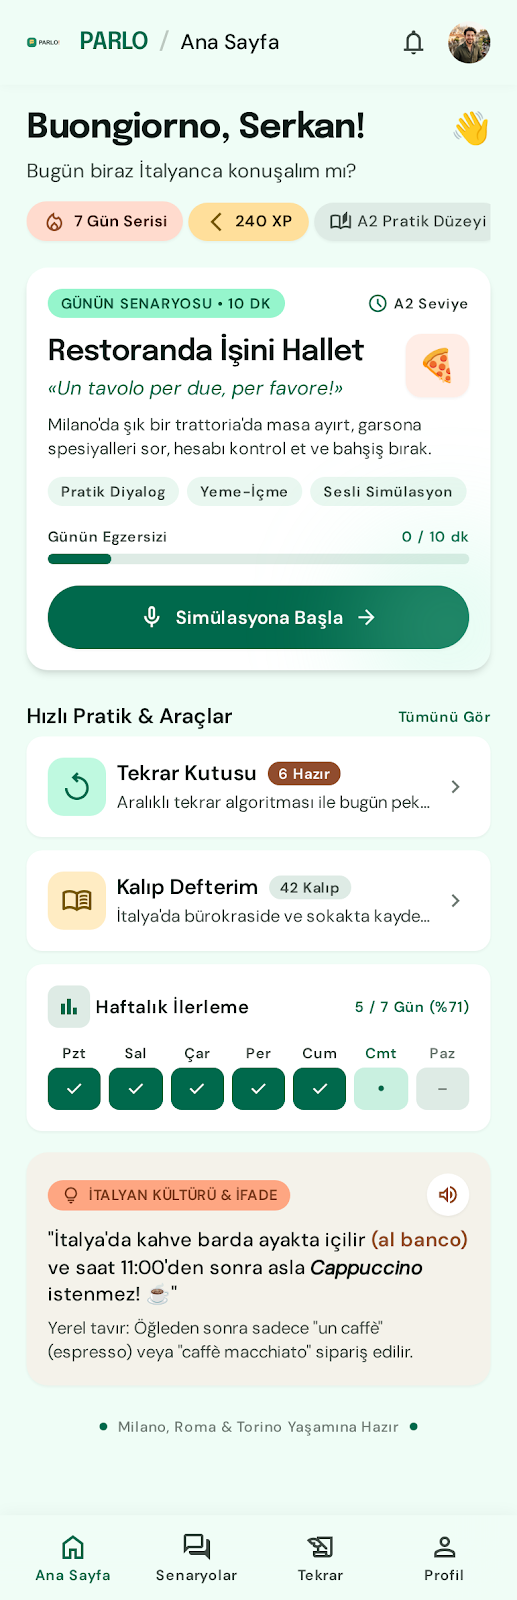
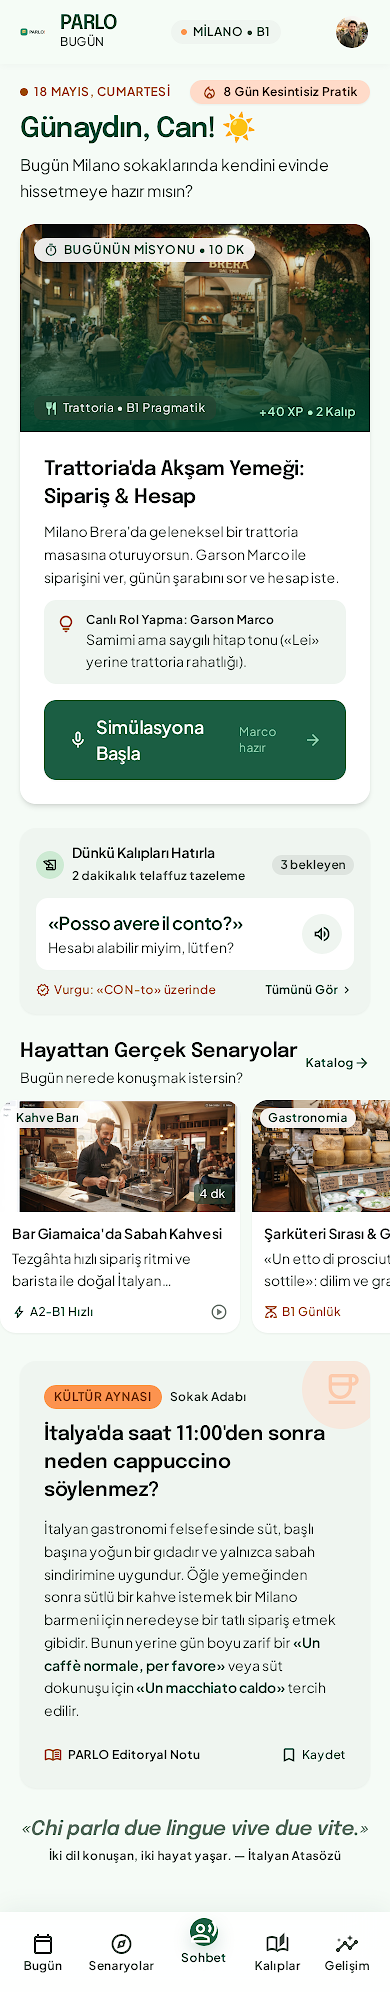
Ana sayfa: yeni editoryal tasarım
- Tarih + gün serisi satırı, büyük misyon kartı (rol yapma notu,
  tekrar/sohbet adımları, tek ana buton)
- "Dünkü kalıpları hatırla": vadesi gelen ya da en zayıf cümle, dinleme ve kalıp ipucu
- Yatay kayan "Hayattan gerçek senaryolar" şeridi
- "Kültür aynası" editoryal kartı (başlıklı ipuçları, cümlelerime kaydet)
- Haftalık takvim Gelişim sayfasına taşındı
- Senaryolara ana sayfa misyon başlığı ("mission") eklendi

Claude-Session: https://claude.ai/code/session_018EdmJzCTZVP4KnGBhiJ7SX

diff --git a/src/screens/home.js b/src/screens/home.js
@@ -1,10 +1,11 @@
 import { h, icon } from '../lib/dom.js';
-import { dailyScene, tips, allCardIds } from '../content/index.js';
-import { today, streak, isActiveDay } from '../lib/store.js';
-import { addDays, isDue } from '../lib/srs.js';
-import { topbar, speakBtn, greeting, levelChip } from '../ui.js';
+import { dailyScene, tips, scenes, cards, allCardIds, patternById, CATEGORIES } from '../content/index.js';
+import { today, streak } from '../lib/store.js';
+import { isDue } from '../lib/srs.js';
+import { topbar, speakBtn, greeting } from '../ui.js';
 
-const WEEKDAYS = ['Pzt', 'Sal', 'Çar', 'Per', 'Cum', 'Cmt', 'Paz'];
+const MONTHS = ['Ocak', 'Şubat', 'Mart', 'Nisan', 'Mayıs', 'Haziran', 'Temmuz', 'Ağustos', 'Eylül', 'Ekim', 'Kasım', 'Aralık'];
+const DAYS = ['Pazar', 'Pazartesi', 'Salı', 'Çarşamba', 'Perşembe', 'Cuma', 'Cumartesi'];
 
 export function dueCount(state, t = today()) {
   return Object.entries(state.cards).filter(([id, c]) => allCardIds.includes(id) && isDue(c, t)).length;
@@ -15,6 +16,11 @@ export function dailyStatus(state, t = today()) {
   const day = state.days[t] || { review: 0, scenes: [] };
   return { scene, reviewDone: Boolean(day.dailyReview), chatDone: day.scenes.includes(scene.id) };
 }
+
+const dayNumber = (t) => {
+  const [y, m, d] = t.split('-').map(Number);
+  return Math.floor(Date.UTC(y, m - 1, d) / 86400000);
+};
 
 function nameCard(ctx) {
   const input = h('input', { class: 'input', placeholder: 'Adın (örn. Serkan)', maxlength: 30, autocomplete: 'given-name', 'aria-label': 'Adın' });
@@ -34,77 +40,126 @@ function nameCard(ctx) {
 
 function missionCard(ctx) {
   const { scene, reviewDone, chatDone } = dailyStatus(ctx.state);
-  const firstLine = scene.nodes[scene.start].intents[0].model;
-  const step = (done, label, ico) => h('div', { class: `step ${done ? 'done' : ''}` }, icon(done ? 'check' : ico), label);
-
-  let cta;
-  if (!reviewDone) cta = h('button', { class: 'btn block', onclick: () => ctx.go('review?daily=1') }, 'Derse başla', icon('arrow'));
-  else if (!chatDone) cta = h('button', { class: 'btn block', onclick: () => ctx.go(`chat/${scene.id}?daily=1`) }, icon('mic'), `${scene.persona.name} ile konuş`, icon('arrow'));
-  else cta = h('button', { class: 'btn soft block', onclick: () => ctx.go(`chat/${scene.id}`) }, icon('check'), 'Bugünlük tamam · Tekrar oyna');
+  const cat = CATEGORIES.find((c) => c.id === scene.cat);
+  const fresh = scene.cards.filter((id) => !ctx.state.cards[id]).length;
+  const go = !reviewDone ? 'review?daily=1' : `chat/${scene.id}${chatDone ? '' : '?daily=1'}`;
+  const [label, sub] = !reviewDone
+    ? ['Derse başla', 'Önce 2 dk tekrar']
+    : !chatDone ? ['Simülasyona başla', `${scene.persona.name} hazır`] : ['Tekrar oyna', 'Bugünlük tamam ✓'];
 
   return h('article', { class: 'card mission' },
-    h('div', { class: `art art-${scene.cat}`, 'aria-hidden': 'true' }, scene.emoji),
+    h('div', { class: `art art-${scene.cat}` },
+      h('span', { class: 'emoji', 'aria-hidden': 'true' }, scene.emoji),
+      h('span', { class: 'chip glass top' }, icon('clock'), `Bugünün misyonu · ~${scene.minutes + 3} dk`),
+      h('div', { class: 'bottom' },
+        h('span', { class: 'row' }, icon(cat.icon), `${scene.it} · ${scene.level}`),
+        h('span', {}, fresh ? `${fresh} yeni kalıp` : 'Tekrar turu'))),
     h('div', { class: 'body stack' },
-      h('div', { class: 'row between' }, h('span', { class: 'eyebrow' }, `Günün senaryosu · ~${scene.minutes + 3} dk`), levelChip(scene.level)),
-      h('h2', {}, `${scene.tr}: ${scene.it}`),
-      h('div', { class: 'row' }, h('p', { class: 'quote grow' }, `«${firstLine}»`), speakBtn(firstLine)),
-      h('p', { class: 'small muted' }, scene.desc),
-      h('div', { class: 'steps' }, step(reviewDone, 'Hızlı tekrar', 'repeat'), step(chatDone, 'Sohbet', 'mic')),
-      cta));
+      h('h2', {}, `${scene.tr}: ${scene.mission}`),
+      h('p', { class: 'muted' }, scene.desc),
+      h('div', { class: 'infobox' }, icon('bulb'),
+        h('div', {},
+          h('p', { class: 'small' }, h('strong', {}, `Canlı rol yapma: ${scene.persona.name}, ${scene.persona.role.toLowerCase()}`)),
+          h('p', { class: 'small muted' }, scene.register === 'Lei' ? 'Kibar ve resmî hitap («Lei»).' : 'Samimi hitap («tu»).'))),
+      h('div', { class: 'progress-line small muted' },
+        h('span', { class: reviewDone ? 'on' : '' }, icon(reviewDone ? 'check' : 'repeat'), 'Hızlı tekrar'),
+        h('span', { class: chatDone ? 'on' : '' }, icon(chatDone ? 'check' : 'mic'), 'Sohbet')),
+      h('button', { class: 'btn mission-cta', onclick: () => ctx.go(go) },
+        icon(reviewDone ? 'mic' : 'repeat'),
+        h('span', { class: 'grow cta-text' }, h('span', {}, label), h('span', { class: 'sub' }, sub)),
+        icon('arrow'))));
 }
 
-function toolsSection(ctx) {
-  const due = dueCount(ctx.state);
-  const known = Object.keys(ctx.state.cards).length;
-  const tool = (badgeCls, ico, title, sub, onclick) =>
-    h('button', { class: 'card tool', onclick },
-      h('span', { class: `badge ${badgeCls}` }, icon(ico)),
-      h('span', { class: 'grow' }, h('h3', {}, title), h('span', { class: 'small muted' }, sub)),
-      icon('chevron', 'chev'));
+/** Tekrar zamanı gelen (yoksa en zayıf bilinen, o da yoksa bugünün) kalıbından bir örnek. */
+function recallCard(ctx) {
+  const t = today();
+  const state = ctx.state;
+  const due = dueCount(state, t);
+  const known = Object.entries(state.cards).filter(([id]) => cards[id]);
+  let pick;
+  let title;
+  if (known.length) {
+    known.sort((a, b) => (isDue(b[1], t) - isDue(a[1], t)) || a[1].box - b[1].box);
+    pick = cards[known[0][0]];
+    title = 'Dünkü kalıpları hatırla';
+  } else {
+    pick = cards[dailyScene(t).key];
+    title = 'Bugünün kalıbı';
+  }
+  const pattern = pick.pattern ? patternById(pick.pattern) : null;
+  return h('section', { class: 'card cream stack' },
+    h('div', { class: 'row' },
+      h('span', { class: 'badge-round' }, icon('repeat')),
+      h('div', { class: 'grow' }, h('h3', {}, title), h('p', { class: 'small muted' }, due ? '2 dakikalık tazeleme' : 'Dinle, sesli tekrar et')),
+      due ? h('span', { class: 'chip' }, `${due} bekleyen`) : null),
+    h('div', { class: 'card row', style: 'padding:14px' },
+      h('div', { class: 'grow' }, h('p', { class: 'key-it', lang: 'it' }, `«${pick.it}»`), h('p', { class: 'tr' }, pick.tr)),
+      speakBtn(pick.it)),
+    h('div', { class: 'row between small' },
+      pattern ? h('span', { class: 'row terra-text' }, icon('bulb'), `Kalıp: ${pattern.head} ${pattern.slot}`.trim()) : h('span'),
+      h('button', { class: 'link row', onclick: () => ctx.go(due ? 'review?mode=due' : 'notebook') }, due ? 'Tekrar et' : 'Tümünü gör', icon('chevron'))));
+}
+
+function scenesStrip(ctx) {
+  const daily = dailyScene(today());
+  const start = scenes.indexOf(daily);
+  const ordered = [...scenes.slice(start + 1), ...scenes.slice(0, start)];
   return h('section', { class: 'stack' },
-    h('h2', {}, 'Hızlı pratik'),
-    tool('', 'repeat', 'Tekrar kutusu', due ? `${due} cümlenin tekrar zamanı geldi` : 'Bugün tekrar edilecek cümle yok', () => due ? ctx.go('review?mode=due') : ctx.go('notebook')),
-    tool('sun', 'book', 'Cümlelerim', known ? `${known} cümle öğrenmeye başladın` : 'Kalıplar ve kendi cümlelerin', () => ctx.go('notebook')));
+    h('div', { class: 'section-head' },
+      h('div', {}, h('h2', {}, 'Hayattan gerçek senaryolar'), h('p', { class: 'small muted' }, 'Bugün nerede konuşmak istersin?')),
+      h('button', { class: 'link row', onclick: () => ctx.go('scenes') }, 'Katalog', icon('arrow'))),
+    h('div', { class: 'strip' }, ordered.map((s) => {
+      const cat = CATEGORIES.find((c) => c.id === s.cat);
+      const done = ctx.state.scenes[s.id]?.runs;
+      return h('button', { class: 'card strip-card', onclick: () => ctx.go(`chat/${s.id}`) },
+        h('span', { class: `thumb art-${s.cat}` },
+          h('span', { class: 'chip glass tag' }, cat.label),
+          h('span', { 'aria-hidden': 'true' }, s.emoji),
+          h('span', { class: 'chip dark time' }, `${s.minutes} dk`)),
+        h('span', { class: 'body' },
+          h('span', { class: 'title' }, `${s.tr} · ${s.it}`),
+          h('span', { class: 'desc' }, s.desc),
+          h('span', { class: 'row between meta' }, h('span', {}, done ? '✓ Tamamlandı' : `${s.level} · ${s.persona.name}`), icon('chevron'))));
+    })));
 }
 
-function weekSection(state) {
-  const t = today();
-  const [y, m, d] = t.split('-').map(Number);
-  const offset = (new Date(y, m - 1, d).getDay() + 6) % 7; // Pazartesi = 0
-  const monday = addDays(t, -offset);
-  const days = WEEKDAYS.map((label, i) => {
-    const key = addDays(monday, i);
-    return { label, key, on: isActiveDay(state, key), isToday: key === t };
-  });
-  const count = days.filter((x) => x.on).length;
-  return h('section', { class: 'card stack' },
-    h('div', { class: 'row between' }, h('h3', {}, 'Bu hafta'), h('span', { class: 'small muted' }, `${count} / 7 gün`)),
-    h('div', { class: 'week' },
-      days.map((x) => h('div', {}, h('span', {}, x.label),
-        h('i', { class: `${x.on ? 'on' : ''} ${x.isToday ? 'today' : ''}`, 'aria-label': `${x.label}: ${x.on ? 'pratik yapıldı' : 'pratik yok'}` }, x.on ? icon('check') : '')))));
-}
-
-function tipCard() {
-  const t = today();
-  const [y, m, d] = t.split('-').map(Number);
-  const tip = tips[Math.floor(Date.UTC(y, m - 1, d) / 86400000) % tips.length];
-  return h('section', { class: 'card terra stack' },
-    h('div', { class: 'row between' }, h('span', { class: 'chip terra' }, icon('bulb'), tip.tag), speakBtn(tip.it)),
-    h('p', { class: 'it' }, `«${tip.it}»`),
-    h('p', { class: 'small' }, tip.text));
+function cultureCard(ctx) {
+  const tip = tips[dayNumber(today()) % tips.length];
+  const saved = () => (ctx.state.personal || []).some((p) => p.it === tip.it);
+  const saveBtn = h('button', { class: 'link row', 'aria-pressed': String(saved()), onclick: () => {
+    if (saved()) return;
+    ctx.state.personal = [{ id: Date.now().toString(36), it: tip.it, note: tip.title, date: new Date().toISOString() }, ...(ctx.state.personal || [])];
+    ctx.persist();
+    saveBtn.replaceChildren(icon('check'), 'Kaydedildi');
+    saveBtn.setAttribute('aria-pressed', 'true');
+  } }, icon(saved() ? 'check' : 'star'), saved() ? 'Kaydedildi' : 'Kaydet');
+  return h('section', { class: 'card culture stack' },
+    h('span', { class: 'deco', 'aria-hidden': 'true' }, '☕'),
+    h('div', { class: 'row' }, h('span', { class: 'chip solid-terra' }, 'Kültür aynası'), h('span', { class: 'small muted' }, tip.tag)),
+    h('h2', {}, tip.title),
+    h('p', {}, tip.text),
+    h('div', { class: 'row example' }, h('p', { class: 'it grow', lang: 'it' }, `«${tip.it}»`), speakBtn(tip.it)),
+    h('div', { class: 'row between small' }, h('span', { class: 'row muted' }, icon('book'), 'PARLO editoryal notu'), saveBtn));
 }
 
 export function renderHome(ctx) {
   const { state } = ctx;
   const s = streak(state);
+  const now = new Date();
   return h('div', { class: 'screen' },
-    topbar({ subtitle: 'Bugün', right: s ? h('span', { class: 'chip terra' }, icon('flame'), `${s} gün`) : null }),
+    topbar({ subtitle: 'Bugün' }),
     state.name ? null : nameCard(ctx),
     h('section', { class: 'greet' },
-      h('h1', {}, `${greeting()}${state.name ? `, ${state.name}` : ''}!`),
-      h('p', { class: 'muted' }, 'Bugün biraz İtalyanca konuşalım mı?')),
+      h('div', { class: 'row between' },
+        h('span', { class: 'eyebrow terra row' }, h('i', { class: 'dot' }), `${now.getDate()} ${MONTHS[now.getMonth()]}, ${DAYS[now.getDay()]}`),
+        s ? h('span', { class: 'chip terra' }, icon('flame'), `${s} gün kesintisiz pratik`) : null),
+      h('h1', {}, `${greeting(now)}${state.name ? `, ${state.name}` : ''}!\u00a0${now.getHours() < 14 ? '☀' : '🌙'}`),
+      h('p', { class: 'muted' }, 'Bugün İtalya sokaklarında kendini evinde hissetmeye hazır mısın?')),
     missionCard(ctx),
-    toolsSection(ctx),
-    weekSection(state),
-    tipCard());
+    recallCard(ctx),
+    scenesStrip(ctx),
+    cultureCard(ctx),
+    h('footer', { class: 'proverb' },
+      h('p', { lang: 'it' }, '«Chi parla due lingue vive due vite.»'),
+      h('p', { class: 'small' }, 'İki dil konuşan, iki hayat yaşar.')));
 }

diff --git a/src/styles.css b/src/styles.css
@@ -153,7 +153,7 @@ button.chip[aria-pressed='true'] { background: var(--green); border-color: var(-
 .dots.low i.on { background: var(--terracotta); }
 
 .section-head { display: flex; align-items: baseline; justify-content: space-between; gap: 12px; }
-.section-head a, .link { color: var(--green-deep); font-weight: 650; font-size: 0.875rem; text-decoration: none; background: none; border: 0; padding: 0; }
+.section-head a, .link { white-space: nowrap; color: var(--green-deep); font-weight: 650; font-size: 0.875rem; text-decoration: none; background: none; border: 0; padding: 0; }
 
 .input {
   width: 100%; min-width: 0; padding: 13px 16px; border-radius: 999px;
@@ -165,25 +165,47 @@ textarea.input { border-radius: var(--r-md); resize: vertical; min-height: 80px;
 .empty { text-align: center; padding: 28px 12px; color: var(--muted); }
 
 /* ---------- Ana sayfa ---------- */
-.greet h1 { font-size: 1.9rem; }
+.greet > * + * { margin-top: 8px; }
+.greet h1 { font-size: 1.85rem; }
+.section-head h2 { font-size: 1.15rem; }
 .mission { padding: 0; overflow: hidden; }
-.mission .body { padding: 18px; }
-.mission .art {
-  height: 112px; display: grid; place-items: center; font-size: 56px;
-  background: linear-gradient(135deg, #f6e3c4 0%, #efc9ae 55%, #e3b192 100%);
-}
-.mission .quote { font-style: italic; color: var(--green-deep); font-weight: 600; }
-.steps { display: grid; grid-template-columns: 1fr 1fr; gap: 8px; }
-.step { display: flex; align-items: center; gap: 8px; padding: 10px 12px; border-radius: var(--r-md); background: var(--cream); font-size: 0.85rem; font-weight: 600; }
-.step .ico { color: var(--muted); }
-.step.done { background: var(--green-tint); color: var(--green-deep); }
-.step.done .ico { color: var(--green); }
+.mission .art { height: 200px; position: relative; overflow: hidden; color: #fff; }
+.mission .art .emoji { position: absolute; right: 22px; top: 40px; font-size: 92px; transform: rotate(-8deg); }
+.mission .art .top { position: absolute; top: 12px; left: 12px; color: var(--ink); text-transform: uppercase; letter-spacing: 0.05em; font-size: 0.72rem; }
+.mission .art .bottom { position: absolute; inset: auto 0 0 0; display: flex; justify-content: space-between; align-items: center; padding: 40px 16px 12px; font-size: 0.85rem; font-weight: 600; background: linear-gradient(to top, rgba(25, 45, 37, 0.8), rgba(25, 45, 37, 0)); }
+.mission .body { padding: 20px; }
+.mission h2 { font-size: 1.4rem; }
+.infobox { display: flex; gap: 10px; padding: 12px 14px; border-radius: var(--r-md); background: var(--cream); }
+.infobox > .ico { color: var(--terracotta-ink); margin-top: 2px; }
+.progress-line { display: flex; gap: 16px; }
+.progress-line span { display: inline-flex; align-items: center; gap: 5px; }
+.progress-line span.on { color: var(--green-deep); font-weight: 600; }
+.btn.mission-cta { width: 100%; justify-content: flex-start; gap: 12px; padding: 18px 20px; border-radius: var(--r-md); background: var(--green-deep); font-size: 1.15rem; text-align: left; }
+.btn.mission-cta .cta-text { display: flex; flex-direction: column; white-space: normal; line-height: 1.2; }
+.btn.mission-cta .sub { font-size: 0.78rem; font-weight: 500; color: #b9dccb; margin-top: 3px; }
+.badge-round { width: 38px; height: 38px; border-radius: 50%; display: grid; place-items: center; background: var(--green-tint); color: var(--green); flex-shrink: 0; }
+.terra-text { color: var(--terracotta-ink); gap: 5px; }
 
-.tool { display: flex; align-items: center; gap: 14px; }
-.tool .badge { width: 44px; height: 44px; border-radius: var(--r-md); display: grid; place-items: center; background: var(--green-tint); color: var(--green); }
-.tool .badge .ico { width: 22px; height: 22px; }
-.tool .badge.sun { background: var(--sun-tint); color: #8a6512; }
-.tool .chev { color: var(--muted); }
+.strip { display: flex; gap: 12px; overflow-x: auto; scroll-snap-type: x mandatory; scrollbar-width: none; margin: 0 -20px; padding: 2px 20px 8px; }
+.strip::-webkit-scrollbar { display: none; }
+.strip-card { flex: 0 0 236px; padding: 0; overflow: hidden; scroll-snap-align: start; text-align: left; display: flex !important; flex-direction: column; }
+.strip-card .thumb { height: 120px; position: relative; display: grid; place-items: center; font-size: 52px; }
+.strip-card .tag { position: absolute; top: 8px; left: 8px; font-size: 0.72rem; padding: 4px 9px; }
+.strip-card .time { position: absolute; bottom: 8px; right: 8px; font-size: 0.72rem; padding: 4px 9px; }
+.chip.dark { background: rgba(25, 45, 37, 0.75); color: #fff; border-color: transparent; }
+.strip-card .body { display: flex; flex-direction: column; gap: 4px; padding: 12px 14px 14px; flex: 1; }
+.strip-card .title { font: 650 1rem/1.3 var(--font-display); }
+.strip-card .desc { font-size: 0.82rem; color: var(--muted); display: -webkit-box; -webkit-line-clamp: 2; -webkit-box-orient: vertical; overflow: hidden; }
+.strip-card .meta { margin-top: auto; padding-top: 6px; font-size: 0.78rem; font-weight: 600; color: var(--terracotta-ink); }
+
+.culture { position: relative; overflow: hidden; background: #f1f4ef; border-color: transparent; box-shadow: none; padding: 22px 20px; }
+.culture .deco { position: absolute; right: -14px; top: -14px; width: 84px; height: 84px; border-radius: 50%; display: grid; place-items: center; background: var(--terracotta-tint); font-size: 30px; padding: 14px 14px 0 0; }
+.culture h2 { font-size: 1.35rem; padding-right: 40px; }
+.culture .example { background: var(--surface); }
+.chip.solid-terra { background: var(--terracotta); color: #fff; border-color: transparent; text-transform: uppercase; letter-spacing: 0.06em; font-size: 0.72rem; }
+.proverb { text-align: center; padding: 8px 12px 0; }
+.proverb p:first-child { font: italic 600 1.2rem/1.4 var(--font-display); color: var(--green-deep); }
+.chip .dot { display: inline-block; width: 7px; height: 7px; border-radius: 50%; background: var(--terracotta); }
 
 .week { display: grid; grid-template-columns: repeat(7, 1fr); gap: 6px; text-align: center; }
 .week span { font-size: 0.7rem; color: var(--muted); font-weight: 600; }

diff --git a/src/screens/progress.js b/src/screens/progress.js
@@ -1,6 +1,7 @@
 import { h, icon } from '../lib/dom.js';
 import { scenes, cards } from '../content/index.js';
-import { streak, reset } from '../lib/store.js';
+import { streak, reset, today, isActiveDay } from '../lib/store.js';
+import { addDays } from '../lib/srs.js';
 import { topbar } from '../ui.js';
 
 const BUCKETS = [
@@ -9,6 +10,24 @@ const BUCKETS = [
   { label: 'Usta', test: (b) => b >= 3 && b <= 4 },
   { label: 'Kalıcı hafızada', test: (b) => b >= 5 },
 ];
+
+const WEEKDAYS = ['Pzt', 'Sal', 'Çar', 'Per', 'Cum', 'Cmt', 'Paz'];
+
+function weekSection(state) {
+  const t = today();
+  const [y, m, d] = t.split('-').map(Number);
+  const offset = (new Date(y, m - 1, d).getDay() + 6) % 7; // Pazartesi = 0
+  const monday = addDays(t, -offset);
+  const days = WEEKDAYS.map((label, i) => {
+    const key = addDays(monday, i);
+    return { label, on: isActiveDay(state, key), isToday: key === t };
+  });
+  return h('section', { class: 'card stack' },
+    h('div', { class: 'row between' }, h('h3', {}, 'Bu hafta'), h('span', { class: 'small muted' }, `${days.filter((x) => x.on).length} / 7 gün`)),
+    h('div', { class: 'week' },
+      days.map((x) => h('div', {}, h('span', {}, x.label),
+        h('i', { class: `${x.on ? 'on' : ''} ${x.isToday ? 'today' : ''}`, 'aria-label': `${x.label}: ${x.on ? 'pratik yapıldı' : 'pratik yok'}` }, x.on ? icon('check') : '')))));
+}
 
 export function renderProgress(ctx) {
   const { state } = ctx;
@@ -42,6 +61,7 @@ export function renderProgress(ctx) {
     h('section', {}, h('p', { class: 'eyebrow' }, 'İlerlemem'), h('h1', {}, 'Gelişim'),
       h('p', { class: 'muted', style: 'margin-top:6px' }, 'Puan değil, gerçekten kurabildiğin cümleler önemli.')),
     h('div', { class: 'stats' }, stat(streak(state), 'gün seri'), stat(strong, 'cümle hafızada'), stat(runs, 'konuşma')),
+    weekSection(state),
     candoSection,
     memory,
     h('section', { class: 'card cream stack' },

diff --git a/tests/content.test.js b/tests/content.test.js
@@ -44,6 +44,7 @@ describe.each(scenes.map((s) => [s.id, s]))('senaryo %s', (_, scene) => {
     expect(scene.cards, 'key, senaryonun kartlarından biri olmalı').toContain(scene.key);
     expect(CATEGORIES.map((c) => c.id)).toContain(scene.cat);
     expect(['Lei', 'tu']).toContain(scene.register);
+    expect(scene.mission, 'ana sayfa misyon başlığı').toBeTruthy();
   });
 });
 

diff --git a/docs/README.md b/docs/README.md
@@ -9,8 +9,9 @@
 | Konu | Karar |
 |---|---|
 | Tasarım sistemi | Warm Mediterranean Editorial: fildişi zemin `#FAF9F6`, İtalyan yeşili `#238B68`, terakota `#D98765`, Epilogue + DM Sans |
+| Haftalık takvim | Ana sayfadan Gelişim sayfasına taşındı |
 | Menü | 4 sekme: Bugün · Senaryolar · Cümlelerim · Gelişim. Sohbet, tekrar ve sonuç tam ekran (alt menü yazı kutusunu kapatmasın) |
-| Ekranlar | Ana sayfa: sade versiyon (tek görev) · Senaryolar: "Gerçek Hayat Senaryoları" (kategori bölümleri, öne çıkan kart + kompakt liste, AI kartı) · Sohbet: restoran versiyonu · Öğretmen: düzeltme paneli · Tekrar: kelime dizme · Sonuç: "Missione completata" + gerçek hayat başarıları |
+| Ekranlar | Ana sayfa: "Günaydın" editoryal versiyon (misyon kartı, dünkü kalıplar, senaryo şeridi, kültür aynası) · Senaryolar: "Gerçek Hayat Senaryoları" (kategori bölümleri, öne çıkan kart + kompakt liste, AI kartı) · Sohbet: restoran versiyonu · Öğretmen: düzeltme paneli · Tekrar: kelime dizme · Sonuç: "Missione completata" + gerçek hayat başarıları |
 | Oyunlaştırma | XP kaldırıldı. Sadece hafif bir gün serisi ve "artık yapabiliyorsun" listesi var (DESIGN.md'deki "yetişkin ton" ilkesine uygun) |
 | Fotoğraflar | v0.3'te yok; senaryo kartlarında emoji + sıcak gradyan kullanılıyor (hafif, çevrimdışı çalışır) |
 | Hitap | Her senaryoda Lei/tu açıkça belirtiliyor; kültür notunda anlatılıyor |
